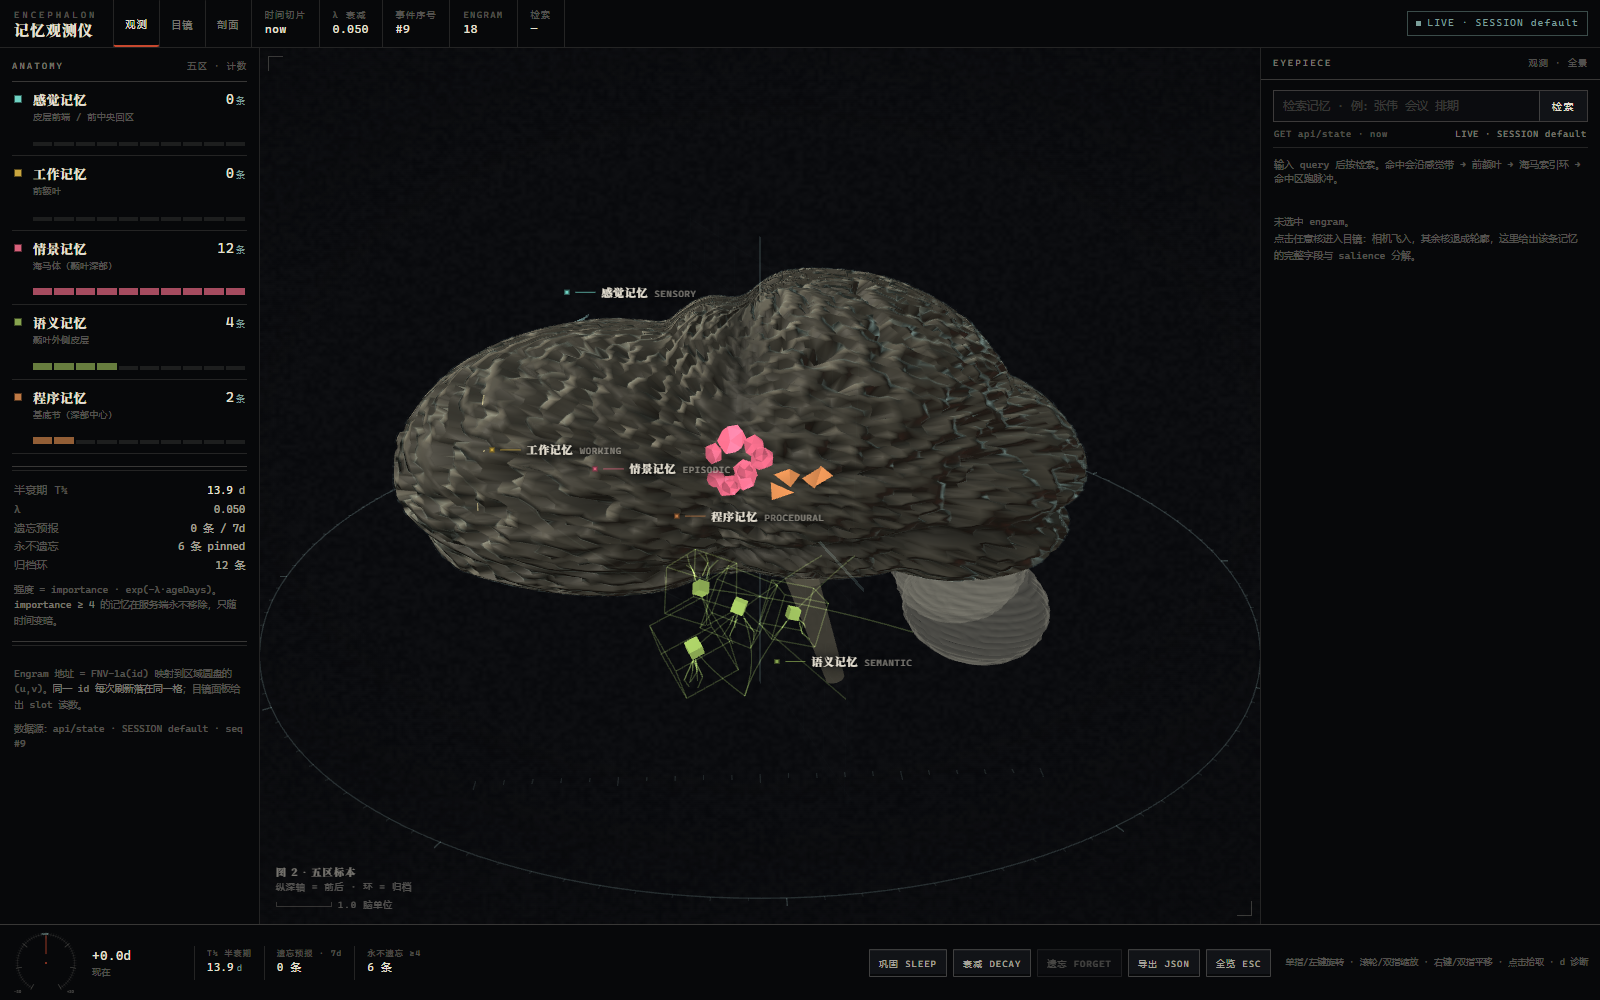
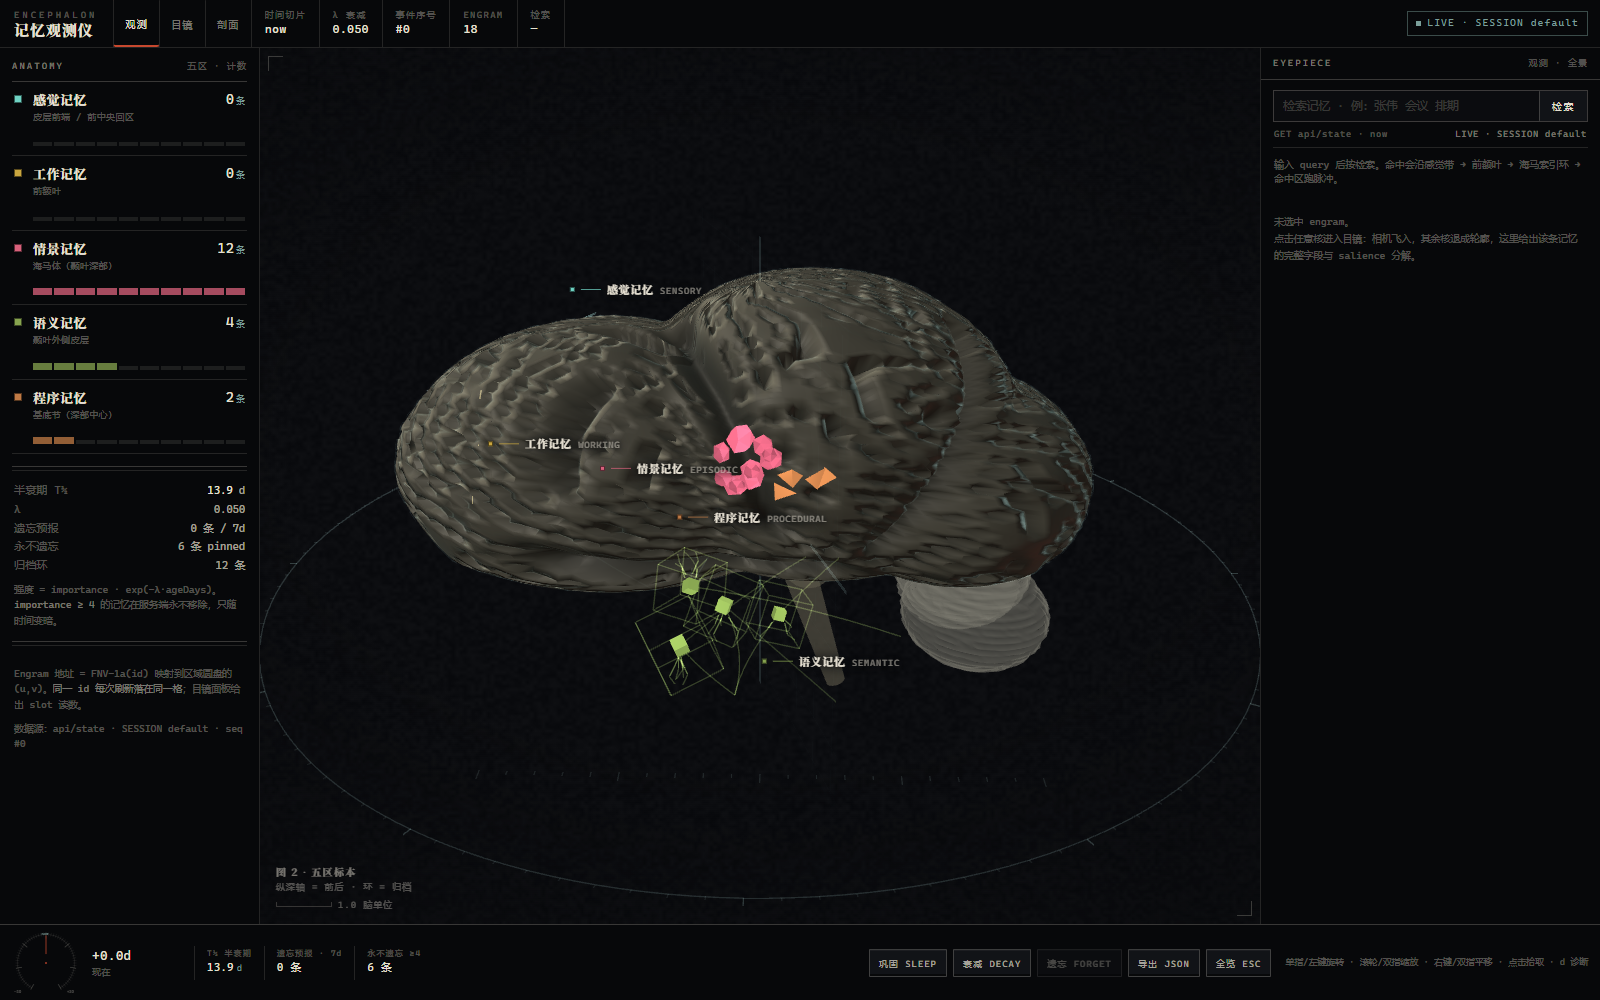
feat(3d): 一级沟骨架驱动沟回（六条主沟 + 平行次级沟）

Changed region(s): [[0.25, 0.248, 0.6875, 0.682]]

diff --git a/dist/deepseek-brain-3d.html b/dist/deepseek-brain-3d.html
@@ -951,25 +951,81 @@ globalThis.THREE=Object.freeze({ACESFilmicToneMapping:nt,AddEquation:M,AddOperat
     return 1 / m;
   })();
 
+  /* ── 一级沟骨架 ───────────────────────────────────────────────────────
+     真实大脑的次级沟是沿着一级沟平行铺开的，不是全局的斜条纹。所以先定义
+     六条一级沟（中央沟、外侧裂、顶枕沟、颞上沟、额上沟、扣带沟）在单位球
+     方向空间里的折线，每个顶点求它到最近骨架的角距离 d 与弧长参数 s：
+       · 一级沟本身：d ≈ 0 处开一道深槽（宽度按各自的 w）
+       · 次级沟：以 d 为相位，沿骨架平行展开（并叠一点 fbm 让它们不那么规整）
+     ==================================================================== */
+  var SULCI = [
+    { id: 'central',  w: 0.070, depth: 1.00, pts: [[0.12, 0.92, 0.28], [0.30, 0.80, 0.22], [0.52, 0.62, 0.12], [0.74, 0.38, 0.02], [0.90, 0.10, -0.06]] },
+    { id: 'sylvian',  w: 0.080, depth: 1.05, pts: [[0.80, -0.20, 0.74], [0.90, -0.28, 0.42], [0.95, -0.30, 0.06], [0.94, -0.26, -0.28]] },
+    { id: 'parieto',  w: 0.058, depth: 0.86, pts: [[0.10, 0.70, -0.52], [0.38, 0.48, -0.56], [0.66, 0.20, -0.52], [0.86, -0.06, -0.44]] },
+    { id: 'sts',      w: 0.052, depth: 0.80, pts: [[0.86, -0.52, 0.62], [0.94, -0.56, 0.20], [0.95, -0.54, -0.22], [0.88, -0.50, -0.52]] },
+    { id: 'frontal',  w: 0.050, depth: 0.72, pts: [[0.55, 0.72, 0.55], [0.72, 0.55, 0.66], [0.88, 0.30, 0.70]] },
+    { id: 'cingulate', w: 0.046, depth: 0.70, pts: [[0.06, 0.72, 0.42], [0.10, 0.30, 0.10], [0.12, -0.10, -0.28]] }
+  ];
+  (function normalizeSulci() {
+    SULCI.forEach(function (s) {
+      s.v = s.pts.map(function (a) {
+        var l = Math.hypot(a[0], a[1], a[2]) || 1;
+        return [a[0] / l, a[1] / l, a[2] / l];
+      });
+      s.len = [];
+      var acc = 0;
+      for (var i = 0; i < s.v.length - 1; i++) {
+        var a = s.v[i], b = s.v[i + 1];
+        acc += Math.hypot(a[0] - b[0], a[1] - b[1], a[2] - b[2]);
+        s.len.push(acc);
+      }
+      s.total = acc || 1;
+    });
+  })();
+
+  var _sk = { d: 9, s: 0, w: 0.06, depth: 0.8 };
+  function nearestSulcus(px, py, pz) {
+    var best = 9, bestS = 0, bestW = 0.06, bestD = 0.8;
+    for (var k = 0; k < SULCI.length; k++) {
+      var sk = SULCI[k];
+      for (var i = 0; i < sk.v.length - 1; i++) {
+        var a = sk.v[i], b = sk.v[i + 1];
+        var ex = b[0] - a[0], ey = b[1] - a[1], ez = b[2] - a[2];
+        var ll = ex * ex + ey * ey + ez * ez;
+        var tt = ll > 1e-9 ? ((px - a[0]) * ex + (py - a[1]) * ey + (pz - a[2]) * ez) / ll : 0;
+        tt = tt < 0 ? 0 : (tt > 1 ? 1 : tt);
+        var qx = a[0] + ex * tt, qy = a[1] + ey * tt, qz = a[2] + ez * tt;
+        var ql = Math.hypot(qx, qy, qz) || 1;
+        var ang = Math.acos(clamp((px * qx + py * qy + pz * qz) / ql, -1, 1));
+        if (ang < best) {
+          best = ang;
+          bestS = (sk.len[i - 1] || 0) + (sk.len[i] - (sk.len[i - 1] || 0)) * tt;
+          bestW = sk.w;
+          bestD = sk.depth;
+        }
+      }
+    }
+    _sk.d = best; _sk.s = bestS / 1.0; _sk.w = bestW; _sk.depth = bestD;
+    return _sk;
+  }
+
   function hemiPoint(px, py, pz, side) {
     var warpA = fbm(px * 3.1 + 11.3, py * 3.1 - 4.1, pz * 3.1 + 7.7, 3);
     var warpB = fbm(px * 4.6 - 2.9, py * 4.6 + 9.2, pz * 4.6 - 5.4, 3);
-    var bandA = Math.sin((pz * 10.2 + py * 3.4 + warpA * 5.4) * Math.PI);
-    var bandB = Math.sin((py * 8.6 - pz * 2.2 + warpB * 6.0) * Math.PI);
-    /* a third, finer family: tertiary gyri that break the parallel "sausage rows" */
-    var bandC = Math.sin((pz * 17.4 - py * 6.1 + warpA * 4.2 - warpB * 2.6) * Math.PI);
-    var groove = Math.min(Math.abs(bandA), Math.abs(bandB));
-    var sul = 1 - smoothstep(0.0, 0.30, groove);
-    sul = Math.pow(sul, 1.30);
-    var sulC = 1 - smoothstep(0.0, 0.20, Math.abs(bandC));
-    sul = Math.max(sul, 0.56 * sulC);
+    var near = nearestSulcus(px, py, pz);
+    var d = near.d;
+    /* 一级沟：以骨架为中心的深槽 */
+    var primary = Math.exp(-Math.pow(d / near.w, 2.0)) * near.depth;
+    /* 次级沟：沿骨架平行展开，相位就是角距离（再加 fbm 扰动与前后的弧长项） */
+    var phase = (d * 12.5 + near.s * 1.05 + warpA * 0.48 + warpB * 0.22) * Math.PI;
+    var band = Math.abs(Math.sin(phase));
+    var secondary = (1 - smoothstep(0.0, 0.26, band)) * 0.95;
+    /* 三级：更细的一族，压掉「同心圆」的机械感 */
+    var tert = Math.abs(Math.sin((d * 30.0 - near.s * 1.8 + warpB * 1.0) * Math.PI));
+    var tertiary = (1 - smoothstep(0.0, 0.15, tert)) * 0.30;
+    var sul = Math.max(primary, Math.max(secondary, tertiary));
     var bump = (1 - sul) * 0.55 + 0.45 * warpA;
-    /* landmark sulci: lateral (sylvian) + central */
-    var sylv = Math.exp(-Math.pow((py + 0.16 + 0.10 * Math.sin(pz * 3.0)) / 0.075, 2)) *
-               smoothstep(-1.7, -0.5, pz) * smoothstep(1.4, -0.1, pz);
-    var central = Math.exp(-Math.pow((pz - 0.18 + 0.12 * py) / 0.085, 2)) * smoothstep(0.15, 0.6, Math.abs(py));
-    sul = Math.max(sul, 0.94 * Math.max(sylv, central * 0.78));
-    var disp = 1 + 0.086 * bump - 0.118 * sul;
+    var disp = 1 + 0.092 * bump - 0.132 * sul;
     /* 叶形半径：同一条射线上的边界由四叶并集给出，不再是单位球 */
     var lobe = lobeRadius(px, py, pz, side) * LOBE_K;
     var mx = softMax(px, 0.018, 0.085);

diff --git a/web/brain-3d.html b/web/brain-3d.html
@@ -939,25 +939,81 @@
     return 1 / m;
   })();
 
+  /* ── 一级沟骨架 ───────────────────────────────────────────────────────
+     真实大脑的次级沟是沿着一级沟平行铺开的，不是全局的斜条纹。所以先定义
+     六条一级沟（中央沟、外侧裂、顶枕沟、颞上沟、额上沟、扣带沟）在单位球
+     方向空间里的折线，每个顶点求它到最近骨架的角距离 d 与弧长参数 s：
+       · 一级沟本身：d ≈ 0 处开一道深槽（宽度按各自的 w）
+       · 次级沟：以 d 为相位，沿骨架平行展开（并叠一点 fbm 让它们不那么规整）
+     ==================================================================== */
+  var SULCI = [
+    { id: 'central',  w: 0.070, depth: 1.00, pts: [[0.12, 0.92, 0.28], [0.30, 0.80, 0.22], [0.52, 0.62, 0.12], [0.74, 0.38, 0.02], [0.90, 0.10, -0.06]] },
+    { id: 'sylvian',  w: 0.080, depth: 1.05, pts: [[0.80, -0.20, 0.74], [0.90, -0.28, 0.42], [0.95, -0.30, 0.06], [0.94, -0.26, -0.28]] },
+    { id: 'parieto',  w: 0.058, depth: 0.86, pts: [[0.10, 0.70, -0.52], [0.38, 0.48, -0.56], [0.66, 0.20, -0.52], [0.86, -0.06, -0.44]] },
+    { id: 'sts',      w: 0.052, depth: 0.80, pts: [[0.86, -0.52, 0.62], [0.94, -0.56, 0.20], [0.95, -0.54, -0.22], [0.88, -0.50, -0.52]] },
+    { id: 'frontal',  w: 0.050, depth: 0.72, pts: [[0.55, 0.72, 0.55], [0.72, 0.55, 0.66], [0.88, 0.30, 0.70]] },
+    { id: 'cingulate', w: 0.046, depth: 0.70, pts: [[0.06, 0.72, 0.42], [0.10, 0.30, 0.10], [0.12, -0.10, -0.28]] }
+  ];
+  (function normalizeSulci() {
+    SULCI.forEach(function (s) {
+      s.v = s.pts.map(function (a) {
+        var l = Math.hypot(a[0], a[1], a[2]) || 1;
+        return [a[0] / l, a[1] / l, a[2] / l];
+      });
+      s.len = [];
+      var acc = 0;
+      for (var i = 0; i < s.v.length - 1; i++) {
+        var a = s.v[i], b = s.v[i + 1];
+        acc += Math.hypot(a[0] - b[0], a[1] - b[1], a[2] - b[2]);
+        s.len.push(acc);
+      }
+      s.total = acc || 1;
+    });
+  })();
+
+  var _sk = { d: 9, s: 0, w: 0.06, depth: 0.8 };
+  function nearestSulcus(px, py, pz) {
+    var best = 9, bestS = 0, bestW = 0.06, bestD = 0.8;
+    for (var k = 0; k < SULCI.length; k++) {
+      var sk = SULCI[k];
+      for (var i = 0; i < sk.v.length - 1; i++) {
+        var a = sk.v[i], b = sk.v[i + 1];
+        var ex = b[0] - a[0], ey = b[1] - a[1], ez = b[2] - a[2];
+        var ll = ex * ex + ey * ey + ez * ez;
+        var tt = ll > 1e-9 ? ((px - a[0]) * ex + (py - a[1]) * ey + (pz - a[2]) * ez) / ll : 0;
+        tt = tt < 0 ? 0 : (tt > 1 ? 1 : tt);
+        var qx = a[0] + ex * tt, qy = a[1] + ey * tt, qz = a[2] + ez * tt;
+        var ql = Math.hypot(qx, qy, qz) || 1;
+        var ang = Math.acos(clamp((px * qx + py * qy + pz * qz) / ql, -1, 1));
+        if (ang < best) {
+          best = ang;
+          bestS = (sk.len[i - 1] || 0) + (sk.len[i] - (sk.len[i - 1] || 0)) * tt;
+          bestW = sk.w;
+          bestD = sk.depth;
+        }
+      }
+    }
+    _sk.d = best; _sk.s = bestS / 1.0; _sk.w = bestW; _sk.depth = bestD;
+    return _sk;
+  }
+
   function hemiPoint(px, py, pz, side) {
     var warpA = fbm(px * 3.1 + 11.3, py * 3.1 - 4.1, pz * 3.1 + 7.7, 3);
     var warpB = fbm(px * 4.6 - 2.9, py * 4.6 + 9.2, pz * 4.6 - 5.4, 3);
-    var bandA = Math.sin((pz * 10.2 + py * 3.4 + warpA * 5.4) * Math.PI);
-    var bandB = Math.sin((py * 8.6 - pz * 2.2 + warpB * 6.0) * Math.PI);
-    /* a third, finer family: tertiary gyri that break the parallel "sausage rows" */
-    var bandC = Math.sin((pz * 17.4 - py * 6.1 + warpA * 4.2 - warpB * 2.6) * Math.PI);
-    var groove = Math.min(Math.abs(bandA), Math.abs(bandB));
-    var sul = 1 - smoothstep(0.0, 0.30, groove);
-    sul = Math.pow(sul, 1.30);
-    var sulC = 1 - smoothstep(0.0, 0.20, Math.abs(bandC));
-    sul = Math.max(sul, 0.56 * sulC);
+    var near = nearestSulcus(px, py, pz);
+    var d = near.d;
+    /* 一级沟：以骨架为中心的深槽 */
+    var primary = Math.exp(-Math.pow(d / near.w, 2.0)) * near.depth;
+    /* 次级沟：沿骨架平行展开，相位就是角距离（再加 fbm 扰动与前后的弧长项） */
+    var phase = (d * 12.5 + near.s * 1.05 + warpA * 0.48 + warpB * 0.22) * Math.PI;
+    var band = Math.abs(Math.sin(phase));
+    var secondary = (1 - smoothstep(0.0, 0.26, band)) * 0.95;
+    /* 三级：更细的一族，压掉「同心圆」的机械感 */
+    var tert = Math.abs(Math.sin((d * 30.0 - near.s * 1.8 + warpB * 1.0) * Math.PI));
+    var tertiary = (1 - smoothstep(0.0, 0.15, tert)) * 0.30;
+    var sul = Math.max(primary, Math.max(secondary, tertiary));
     var bump = (1 - sul) * 0.55 + 0.45 * warpA;
-    /* landmark sulci: lateral (sylvian) + central */
-    var sylv = Math.exp(-Math.pow((py + 0.16 + 0.10 * Math.sin(pz * 3.0)) / 0.075, 2)) *
-               smoothstep(-1.7, -0.5, pz) * smoothstep(1.4, -0.1, pz);
-    var central = Math.exp(-Math.pow((pz - 0.18 + 0.12 * py) / 0.085, 2)) * smoothstep(0.15, 0.6, Math.abs(py));
-    sul = Math.max(sul, 0.94 * Math.max(sylv, central * 0.78));
-    var disp = 1 + 0.086 * bump - 0.118 * sul;
+    var disp = 1 + 0.092 * bump - 0.132 * sul;
     /* 叶形半径：同一条射线上的边界由四叶并集给出，不再是单位球 */
     var lobe = lobeRadius(px, py, pz, side) * LOBE_K;
     var mx = softMax(px, 0.018, 0.085);

diff --git a/README.md b/README.md
@@ -341,7 +341,7 @@ node tools/build-3d.mjs      # 生成 dist/deepseek-brain-3d.html
 
 - 皮层不再是一颗椭球：`LOBE_C` 定义额/顶/枕/颞四叶的椭球场（`[cx,cy,cz, rx,ry,rz, mirror]`，颞叶按半球镜像），用 polynomial smooth-max（`k = 0.14`）求并集，再沿每个顶点方向二分 16 次求边界半径 `lobeRadius()`；`LOBE_K` 把并集最大半径归一到 1。于是额极收窄、顶点抬高、枕极圆钝、颞叶外凸——这些都是几何而不是贴图。
 - 两个**闭合**半球：内侧顶点被 softMax 折到 `x ≈ ±gapHalf` 的墙面上，两壁之间是真缝（纵裂）；脑底面在颅底处压平（`py < -0.30` 后的 0.58 折减）。
-- 沟回叠在叶形之上：三族倾斜板 `bandA/bandB/bandC` 叠加 fbm 扭曲，`sul` 取最大值后锐化，`disp = 1 + 0.086·bump − 0.118·sul`；中央沟与外侧裂用固定坐标写死。
+- 沟回不用全局斜条纹，而是**一级沟骨架**：`SULCI` 定义中央沟、外侧裂、顶枕沟、颞上沟、额上沟、扣带沟六条折线（单位球方向空间），每个顶点求到最近骨架的角距离 `d` 与弧长 `s`——`d ≈ 0` 处按各自宽度 `w` 开深槽（`exp(-(d/w)²)`），次级沟以 `d` 为相位沿骨架平行展开（`sin(d·12.5 + s·1.05 + fbm)`），三级沟再叠一层细相位打散同心感；`disp = 1 + 0.092·bump − 0.132·sul`。中央沟与外侧裂因此是真正的分叶深沟，不是画上去的线。
 - 小脑是两半球 + 蚓部三个网格（共用一份叶片条纹几何），脑干与桥脑独立。
 - 皮层用 `MeshStandardMaterial` 承接真实定向光（key/fill/rim 三灯 + 半球光），顶点色承载沟回的「沟底变暗」；engram 用 `depthTest:false` 的 X 光叠加，所以能隔着皮质看到深部结构——这是仪器语义，不是穿模。
 - 剖面切面是**解析式着色器**：`vUv` 上算灰质带（`smoothstep(rim-0.19, rim-0.05, r)`）、皮质-白质交界亮线、胼胝体弧、穹窿、侧脑室、基底节，再叠一层 hash 颗粒与沿灰质带的沟刻痕；不经过纹理，所以没有色彩空间损耗。
@@ -351,6 +351,10 @@ node tools/build-3d.mjs      # 生成 dist/deepseek-brain-3d.html
 | 检索束（加粗管线，命中瞬间） |
 | --- |
 | ![检索束](docs/screenshots/brain3d-recall.png) |
+
+| 凑近看皮层（沟回沿一级沟骨架铺开） |
+| --- |
+| ![皮层细节](docs/screenshots/brain3d-detail.png) |
 
 **性能（目标 60 fps，含移动端）**
 
@@ -458,7 +462,7 @@ deepseek-brain/
 - `vector` 默认关闭。`hash` provider 只是字符级哈希相似度，不是真正的语义嵌入；接 LanceDB 时可以注入自己的 embedding。
 - Windows 上文件写入走「删目标再 rename」的回退路径，极端断电窗口内可能丢一次写入，但有备份兜底。
 - 3D 页面在 `file://` 下无法访问 API，会自动切到内置演示记忆；实时数据请走 `brain_dashboard` 给出的 URL。
-- 3D 皮质是**程序化近似**，不是医学模型：沟回由三族倾斜板 + fbm 扭曲生成，缺少一级沟→次级沟的真实尺度递进，额极/枕极偏圆钝，小脑叶片是正弦条纹；远看合格，贴近看依然是「生成物」。engram 用 X 光叠加（`depthTest:false`）是刻意的仪器语义，不是穿模。
+- 3D 皮质是**程序化近似**，不是医学模型：叶形来自四椭球并集，沟回来自六条一级沟骨架 + 平行相位；一级沟的位置是手调的近似解，脑回宽度比真实大脑更均匀，额极/枕极偏圆钝，小脑叶片仍是正弦条纹；远看合格，贴近看依然是「生成物」。engram 用 X 光叠加（`depthTest:false`）是刻意的仪器语义，不是穿模。
 - 时间旅行只重算**强度与预报**，不会真的把记忆写回过去；`?at=` 是只读的时间切片。
 - Windows PowerShell 的 `Invoke-RestMethod` 默认按 ANSI 发 body，中文会变成 `??`；用 `[Text.Encoding]::UTF8.GetBytes($body)`（见 `docs/EXAMPLES.md`）。
 - 390 px 下观测仪把左侧脑区表收成横向条、把目镜改成底部抽屉；3D 页在竖屏会把标本按比例拉远，避免裁掉两颞侧，代价是上下留白。
